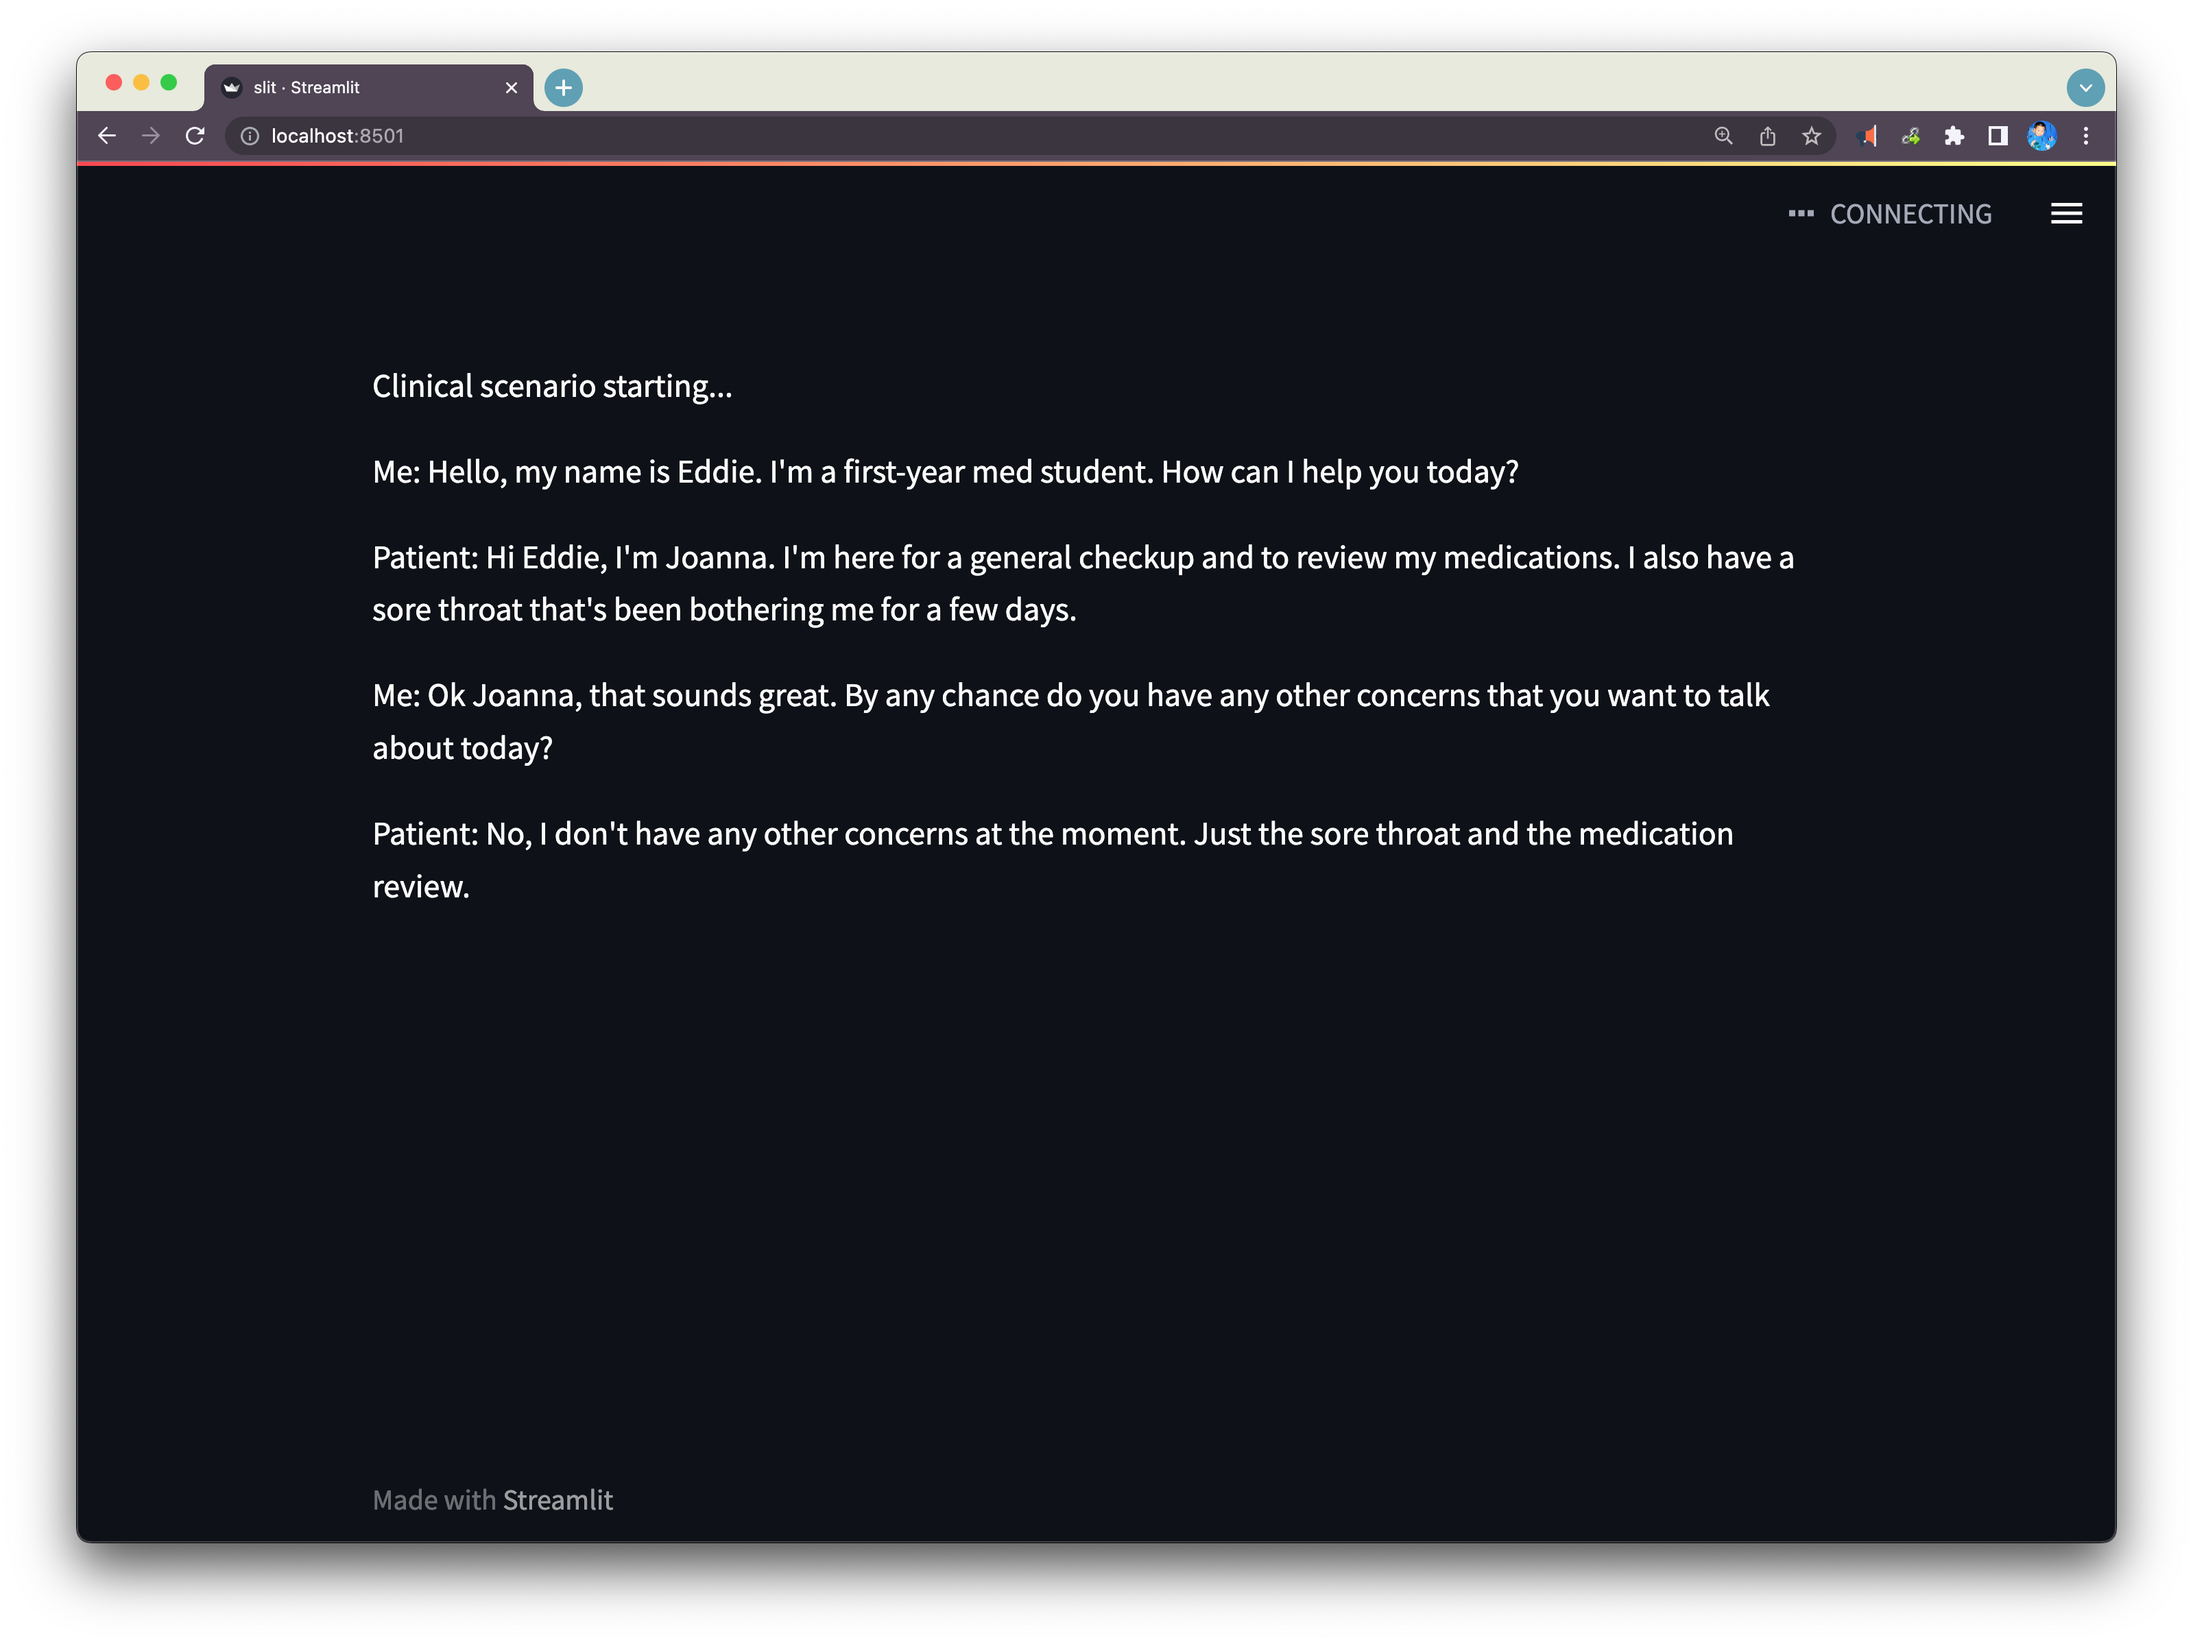
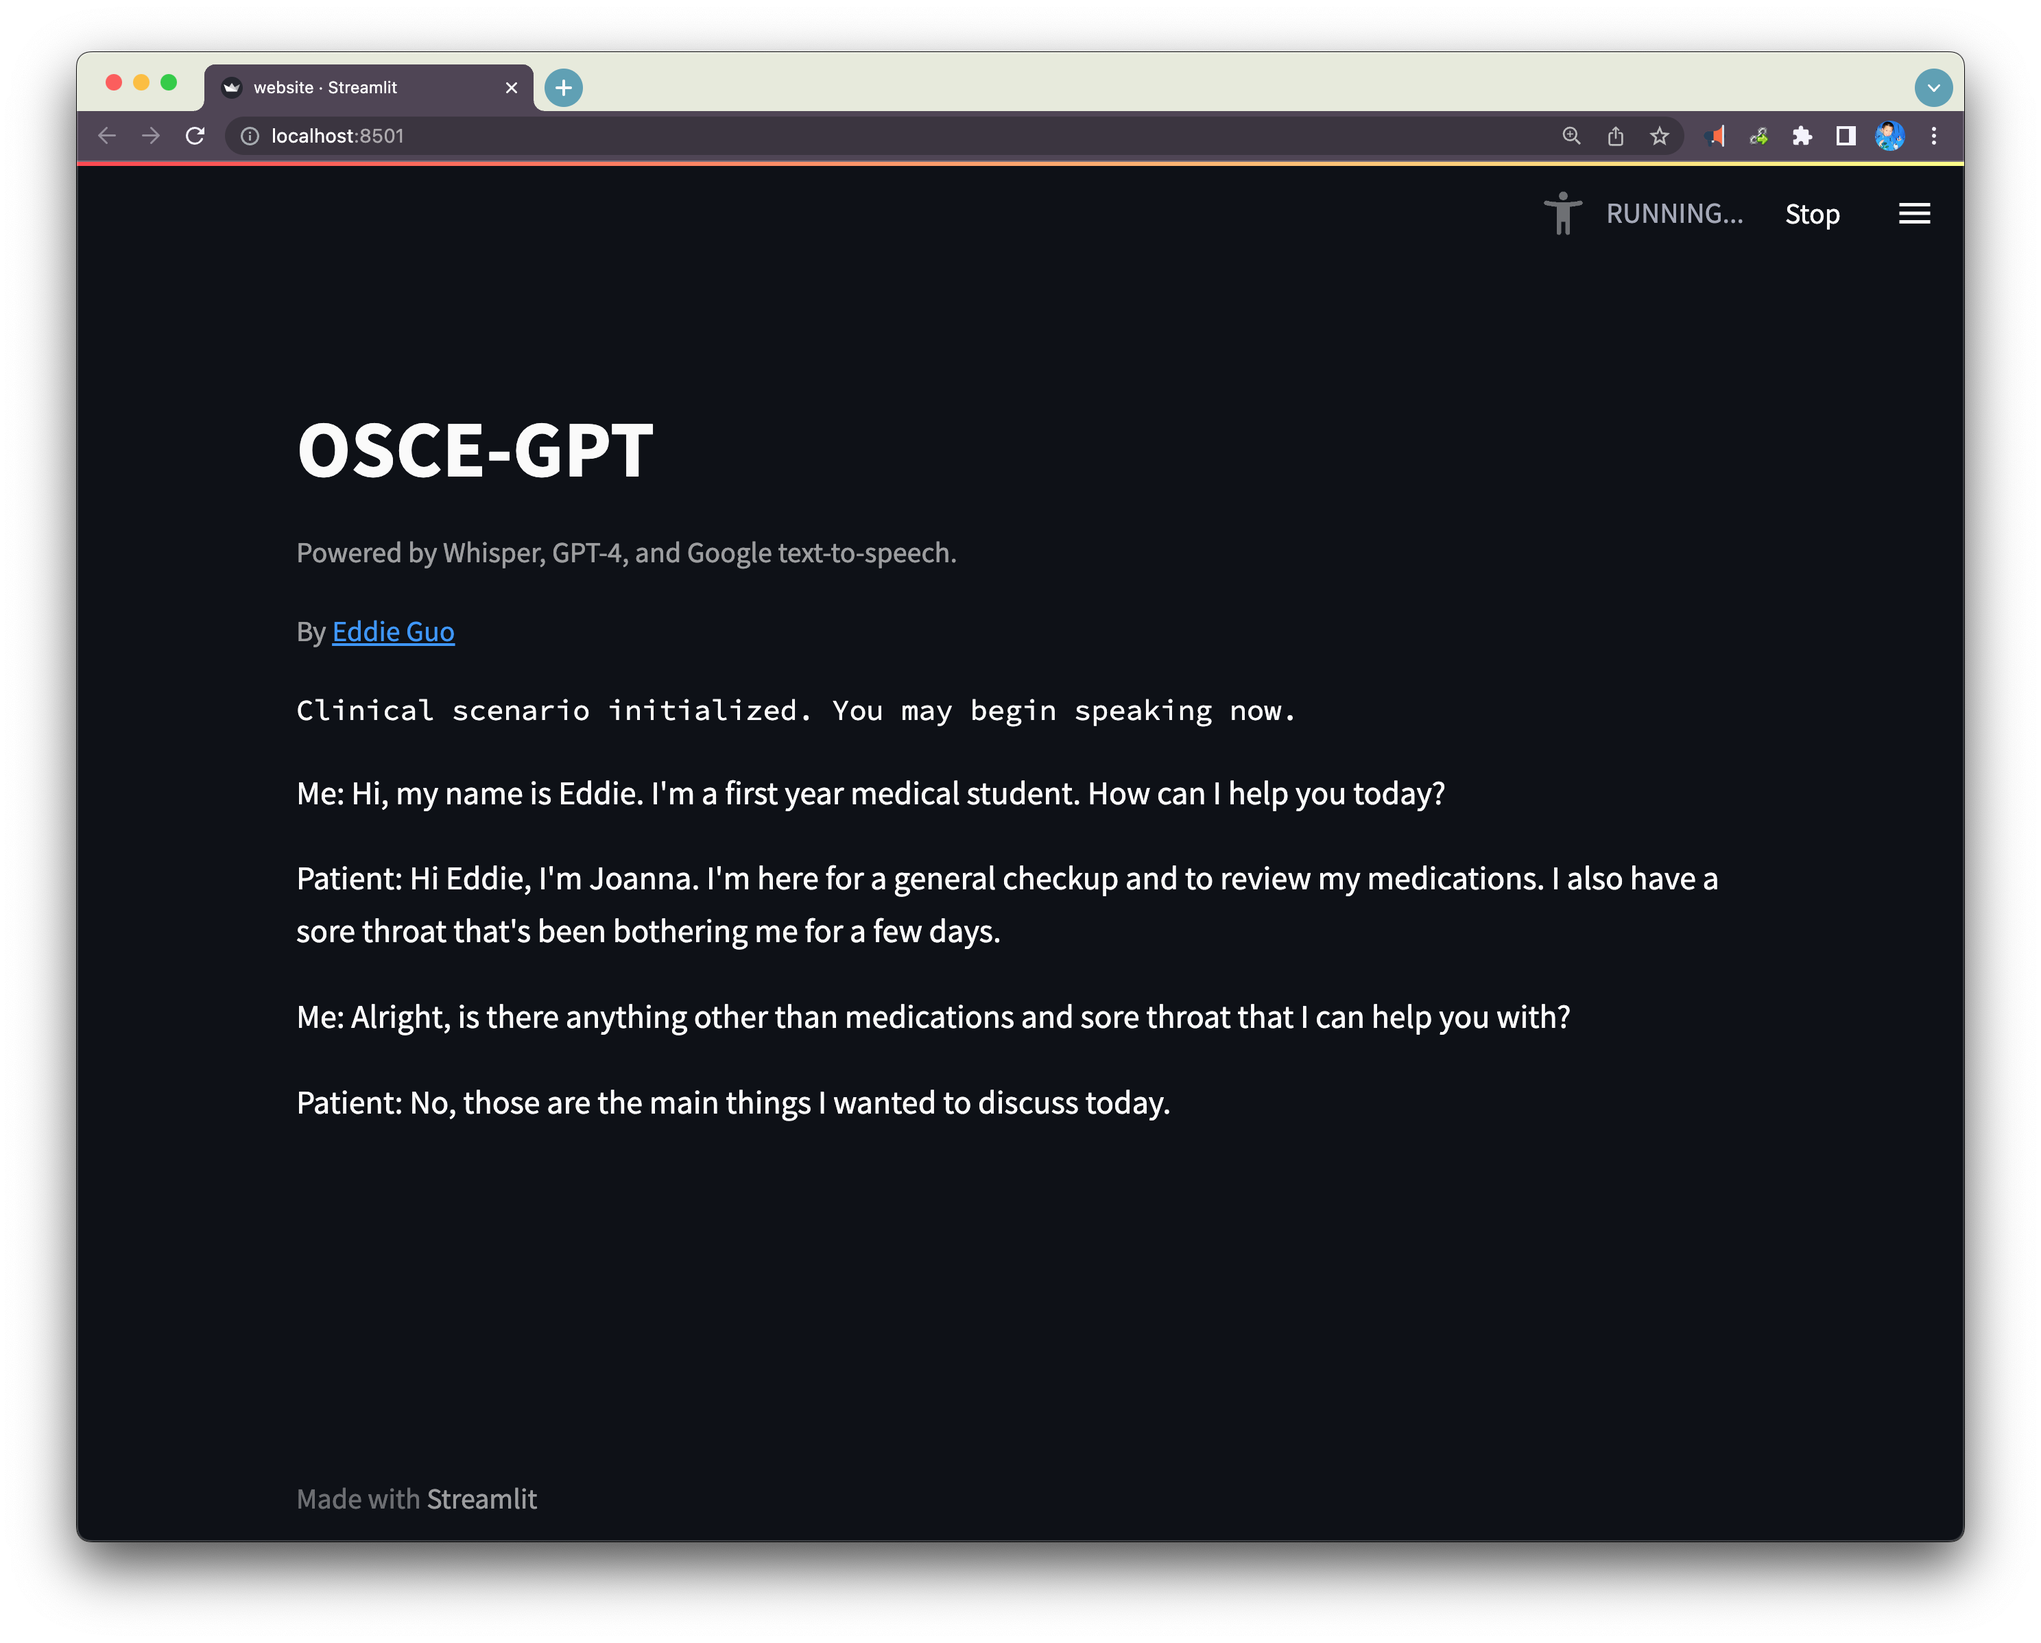
updated files

diff --git a/website.py b/website.py
@@ -58,7 +58,7 @@ class Patient:
             self.tokens -= len(self.tokenizer(popped['content'])['input_ids'])
 
     def main(self):
-        st.write("Clinical scenario starting. You may begin speaking now.")
+        st.text("Clinical scenario initialized. You may begin speaking now.")
         while True:
             with sr.Microphone() as source:
                 source.pause_threshold = 0.8  # silence in seconds
@@ -71,6 +71,9 @@ class Patient:
                 self.speak(response)
 
 if __name__ == '__main__':
+    st.title('OSCE-GPT')
+    st.caption('Powered by Whisper, GPT-4, and Google text-to-speech.')
+    st.caption('By [Eddie Guo](https://tig3r66.github.io/)')
     instructions = "You are a patient in a family medicine practice. Your name is Joanna. You are 35 years old female. You have a sore throat. You have a history of asthma and allergies. You are in for a general checkup to review your medications. You are currently on Advair and have well-controlled asthma. Please answer questions based on a presentation of well controlled asthma. Please answer questions like a patient. Do not give too much away unless asked. You may use creativity in your answers."
     patient = Patient(instructions)
     patient.main()
